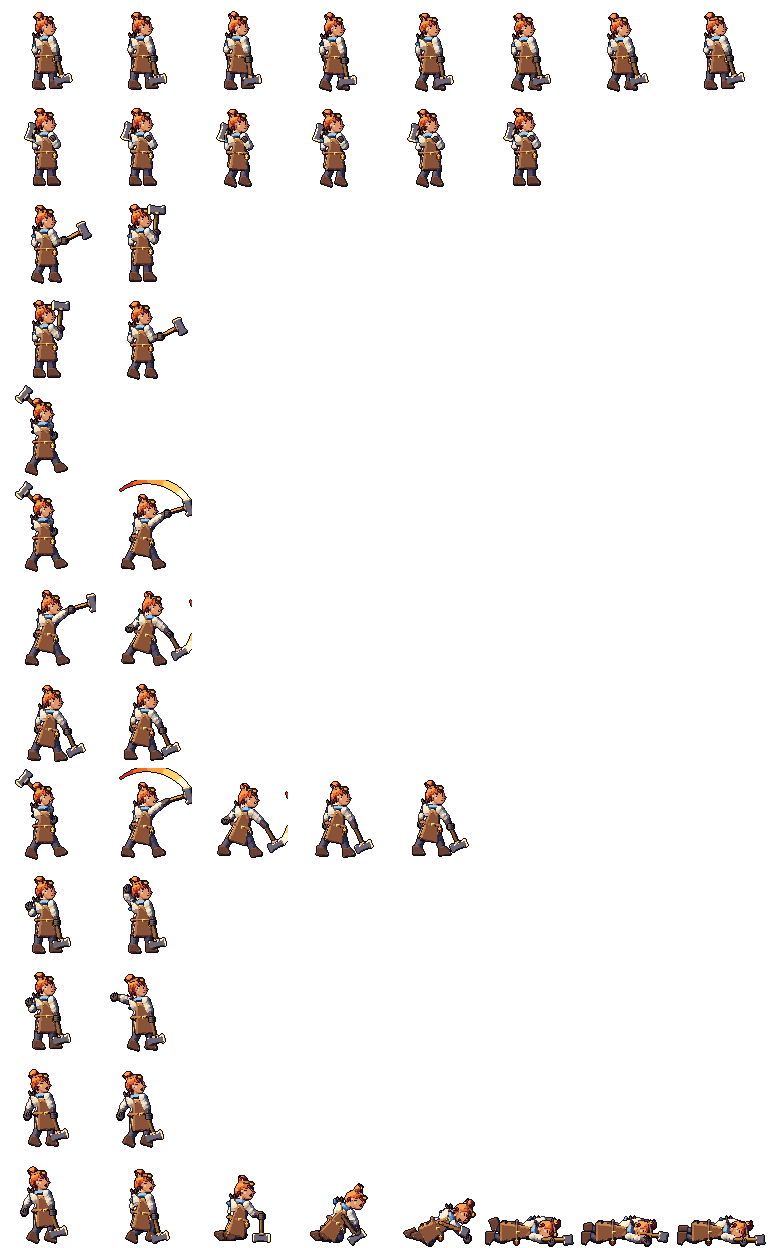
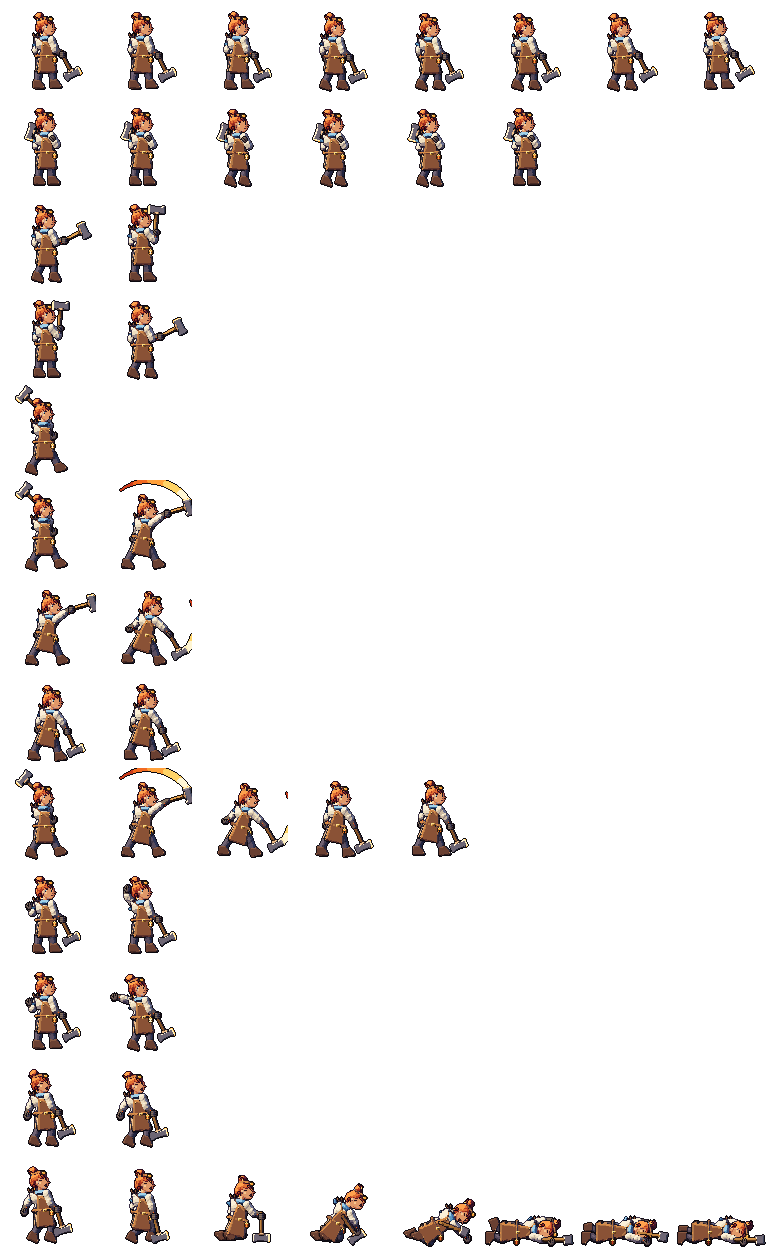
art: F2-PULIDO-B — cabeza del martillo separada de las botas (reserva de C14)
Antebrazo cercano adelantado (muñeca 62,55, mano x ≈ 61) y martillo inclinado ~26° en idle, cast y toss;
hurt algo menos. Hueco martillo–bota en idle: 0 → 2–7 px. Sin colores nuevos, 74 px + moño, socket hit estable.
Evidencia y diario en docs/reviews/v04/personajes/f2_pulido_b/.

Claude-Session: https://claude.ai/code/session_01QNUS8YfdZMMBUQPTLseeFn

diff --git a/docs/reviews/v04/personajes/f2_pulido_b/diario.md b/docs/reviews/v04/personajes/f2_pulido_b/diario.md
@@ -1,0 +1,40 @@
+# F2-PULIDO-B · Diario (reserva de C14: cabeza del martillo junto a las botas)
+
+Nube Linux, Godot 4.7.2, xvfb. Archivos: `scripts/art/defs/hero/fogonera.gd`, su horneado (`assets/baked/hero/fogonera*`,
+entrada `fogonera` de `assets/baked/manifest.json`) y `tests/art/out/qa/fogonera_qa.png`.
+
+## Causa
+En `idle` la muñeca (56,5, 58,5) dejaba el centro de la cabeza en ≈ (62, 80), con el borde inferior en y ≈ 85: la cabeza tapaba la
+puntera de la bota cercana (borde superior en y 80, x 50–62). Mismo brazo en `cast`, `toss_back`, `toss`.
+
+## Cambio (sólo articulaciones de pose; sin piezas ni colores nuevos)
+- Brazo cercano: el antebrazo se adelanta (muñeca 62, 55; mano a x ≈ 61) y el martillo se inclina ~26° hacia delante
+  (punto 70,5, 72,5). La cabeza queda por delante y por encima de la puntera; el mango cruza en diagonal.
+- Igual en `cast` y `toss_back`; `toss` con el mismo gesto 1 px más bajo; `hurt`/`hurt2` con el mismo antebrazo algo menos
+  adelantado (retroceso), para no abrir salto. `die1`, ataque y hombro sin tocar.
+- Se calculó antes la distancia geométrica cabeza–bota (polígonos de `_hammer` y `boot_f`): antes −1 (solapadas), ahora 5,6.
+- 74 px + moño sin cambios (bbox `idle` f0: y 12–89; el ancho pasa de 73 a 83 en x por el martillo adelantado).
+
+## Medida (hueco horizontal transparente mínimo entre pierna y martillo, filas 76–89, horneado)
+| | f0 | f1 | f2 | f3 | f4 | f5 | f6 | f7 |
+|---|---|---|---|---|---|---|---|---|
+| `idle` antes | 0 | 0 | 0 | 0 | 0 | 0 | 0 | 0 |
+| `idle` ahora | 6 | 4 | 3 | 2 | 3 | 3 | 5 | 7 |
+`cast` 4/4 · `toss` 4/3. Una primera prueba (antebrazo 45°, martillo 24°) dejaba 1 px o contacto en f3–f4 por el vaivén del brazo.
+
+## Socket `hit` (sin saltos)
+`idle` 80,70→78,74 · `cast` 79,71 · `toss` 79,71→78,71 · `hurt` 74,73→71,76 · `death` f0 71,76 · `shoulder_in` 80,31→52,17 ·
+`recover` 84,75→83,74 (ahora más cerca del reposo que antes).
+
+## Evidencia
+- `tools/qa.sh bake --only=fogonera`: 1 horneada, 0 errores.
+- `tools/qa.sh all`: QA 1745/0; arte 1 fallo en `test_mv.gd` («las fuentes cambiaron desde el último horneado: ejecuta
+  tools/bake_rooms.gd»): ajeno, viene de `bg_act1.gd` sin hornear del agente de salas.
+- Recorrido `smoke.tscn` en `/tmp/claude-0/shots_pb` (antes en `/tmp/claude-0/shots_pb_before`): SMOKE OK.
+- `recorte_07_x1_antes_despues.png` y `recorte_07_x4_antes_despues.png` (izquierda antes, derecha ahora; px 290–400 × 420–540),
+  `hoja_fogonera_qa.png`, `transiciones_x3.png` (idle f0/f3, cast, toss ×2, hurt ×2, shoulder_in, shoulder_out, recover).
+
+## Pendiente / no comprobado
+- Transiciones vistas en la tira horneada y en sockets, no en movimiento en juego.
+- La cabeza inclinada se lee algo más «hacha» de perfil a ×1; la cara caliente sigue visible.
+- El contorno azul de selección de 07 (de `fighter_view`) pasa por el hueco; sin él el hueco es de fondo.
